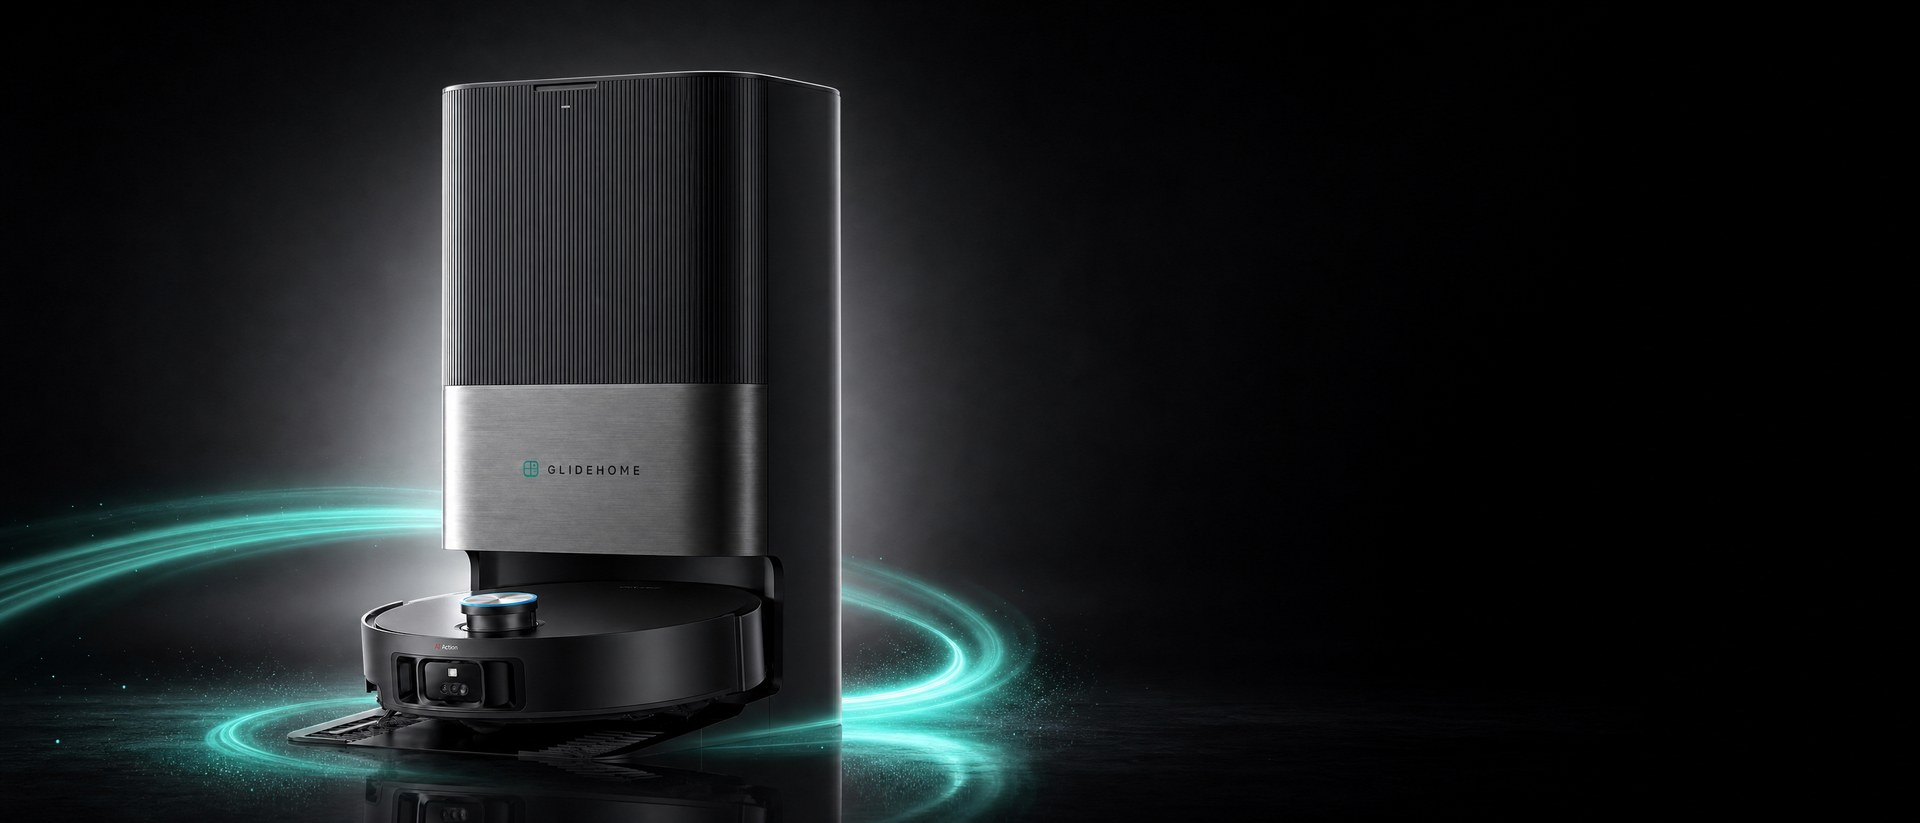
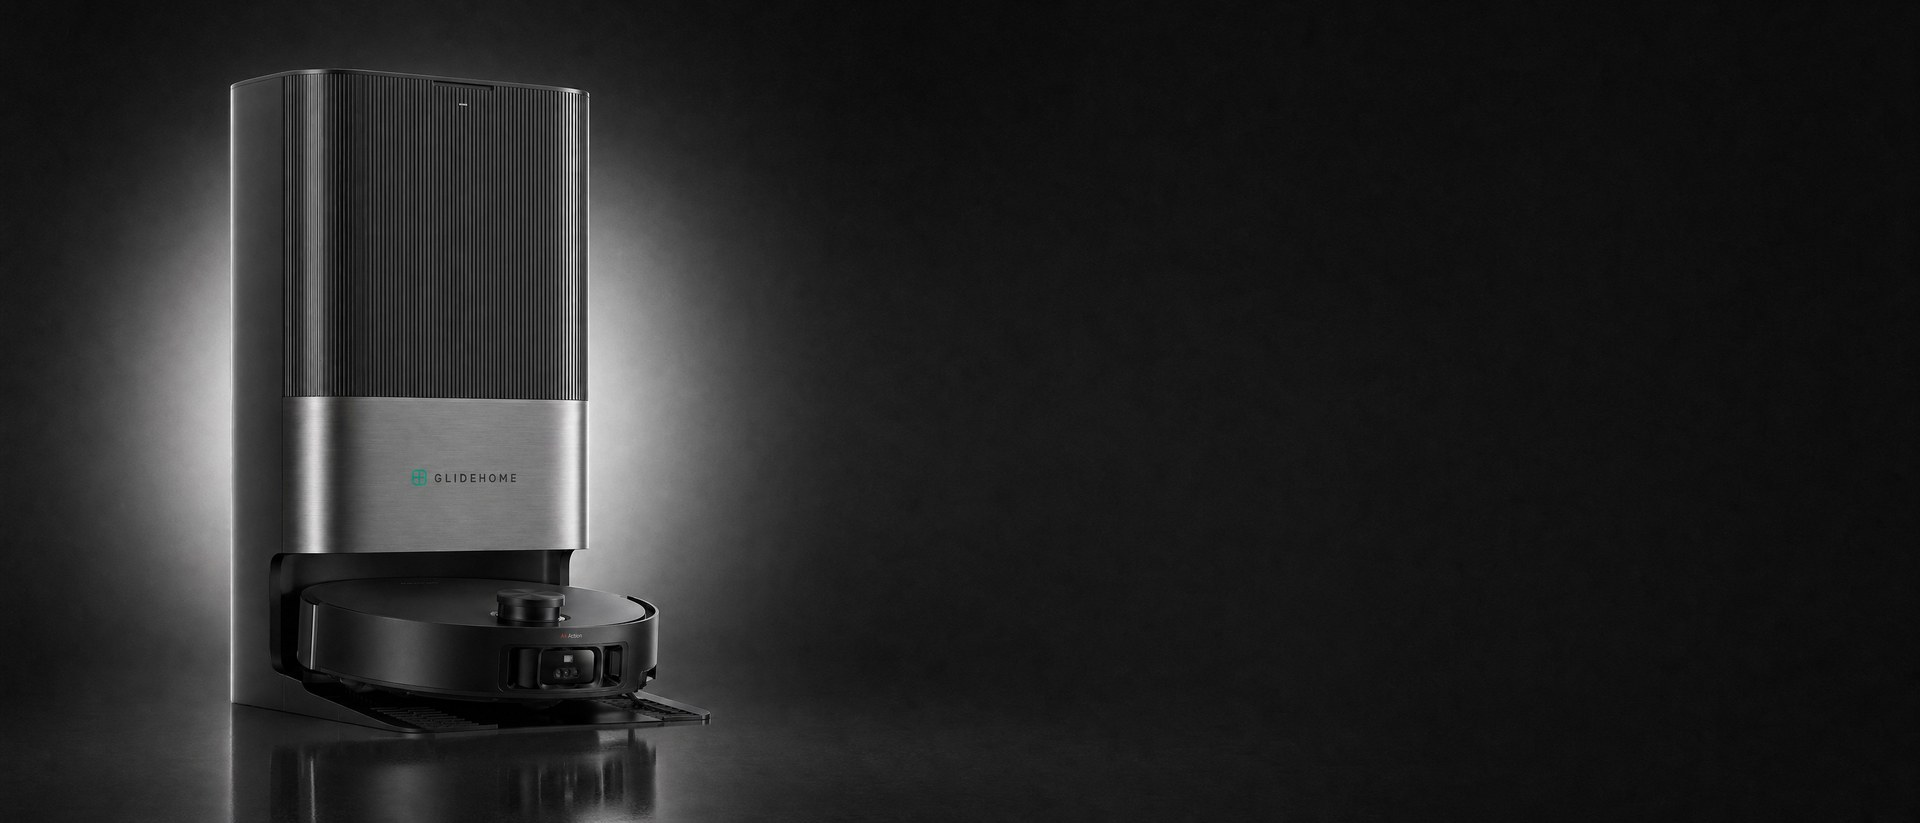
fix(shopify+proto): десктопные hero-картинки перегенерены под фиксы прототипа
- vacstation: убраны световые кольца/круги (как на мобильной версии)
- vac: убрана линия света на полу
- stickvac: пылесос у стены, не посреди комнаты
- windowpro/antimite: чистое стекло / включённый вид, товар в левой трети
- обновлены в теме (assets/glide-*.jpg + Shopify Files через fileUpdate, gid'ы те же)
- preview-shopify.html: добавлена шапка из прототипа, картинки с локальных путей (всегда свежие)

diff --git a/preview-shopify.html b/preview-shopify.html
@@ -1,77 +1,87 @@
 <!doctype html><html lang="en"><head><meta charset="utf-8">
 <meta name="viewport" content="width=device-width, initial-scale=1">
 <title>GlideHome — Shopify preview</title>
+<link rel="stylesheet" href="styles.css">
 <link rel="stylesheet" href="shopify/glide-home.css">
-<style>body{margin:0;font-family:-apple-system,BlinkMacSystemFont,"Segoe UI",Roboto,Arial,sans-serif;background:#f6f9fa}
-.note{background:#0f2831;color:#8fe6f0;font-size:12px;padding:8px 16px;text-align:center}</style>
+<style>.gh-note{background:#0f2831;color:#8fe6f0;font-size:12px;padding:7px 16px;text-align:center}</style>
 </head><body>
-<div class="note">Зеркало Shopify-секций glide-hero + glide-categories (тема GlideHome REDESIGN). Тот же CSS/JS/картинки, что в теме.</div>
+<div class="gh-note">Зеркало темы Shopify: шапка + секции glide-hero и glide-categories (те же CSS/JS/картинки, что в теме GlideHome REDESIGN)</div>
 
+<header id="hdr">
+  <div class="wrap nav">
+    <a class="logo" href="index.html">
+      <svg class="mark" viewBox="0 0 24 24" fill="currentColor"><rect x="2" y="2" width="9" height="9" rx="2"/><rect x="13" y="2" width="9" height="9" rx="2"/><rect x="2" y="13" width="9" height="9" rx="2"/><rect x="13" y="13" width="9" height="9" rx="2"/></svg>
+      GlideHome
+    </a>
+    <nav class="menu">
+      <div class="has-sub">
+        <a href="line.html">Window Cleaning Robot</a>
+        <div class="submenu">
+          <a href="line.html#lineup">GlideHome W17S</a>
+          <a href="line.html#lineup">GlideHome DYP</a>
+          <a href="line.html#explore">Accessories</a>
+        </div>
+      </div>
+      <div class="has-sub">
+        <a href="line.html">Robot Vacuum</a>
+        <div class="submenu">
+          <a href="product.html">GlideHome Vac Slim</a>
+          <a href="line.html#explore">Accessories</a>
+        </div>
+      </div>
+      <div class="has-sub">
+        <a href="support.html">Support</a>
+        <div class="submenu">
+          <a href="support.html#faq">FAQ</a>
+          <a href="support.html#setup">Setup guides</a>
+          <a href="support.html#warranty">Warranty &amp; returns</a>
+        </div>
+      </div>
+      <a href="about.html">About</a>
+    </nav>
+    <div class="icons">
+      <button aria-label="Search"><svg viewBox="0 0 24 24" fill="none" stroke="currentColor" stroke-width="2"><circle cx="11" cy="11" r="7"/><path d="m20 20-3.5-3.5"/></svg></button>
+      <a href="#" aria-label="Account"><svg viewBox="0 0 24 24" fill="none" stroke="currentColor" stroke-width="2"><circle cx="12" cy="8" r="4"/><path d="M5 21c0-4 3-6 7-6s7 2 7 6"/></svg></a>
+      <a href="#" aria-label="Cart"><svg viewBox="0 0 24 24" fill="none" stroke="currentColor" stroke-width="2"><path d="M6 6h15l-2 10H8L6 6Z"/><path d="M6 6 5 3H2"/><circle cx="9" cy="20" r="1.5"/><circle cx="17" cy="20" r="1.5"/></svg></a>
+      <button class="menu-toggle" aria-label="Menu"><svg viewBox="0 0 24 24" fill="none" stroke="currentColor" stroke-width="2"><path d="M3 6h18M3 12h18M3 18h18"/></svg></button>
+    </div>
+  </div>
+</header>
 <section class="glide glide-hero" data-glide-hero data-autoplay-ms="6000">
   <div class="glide-slides" data-glide-track>
-      <div class="glide-slide is-active" data-glide-slide
-        style="--img:url('https://cdn.shopify.com/s/files/1/0740/1878/3409/files/vacstation.jpg?v=1788360405');--img-m:url('https://cdn.shopify.com/s/files/1/0740/1878/3409/files/vacstation-m.jpg?v=1788360408');--pos-m:center;">
+      <div class="glide-slide is-active" data-glide-slide style="--img:url('slides/vacstation.jpg');--img-m:url('slides/vacstation-m.jpg');--pos-m:center;">
         <div class="glide-slide-bg"></div>
         <div class="glide-wrap"><div class="glide-slide-inner">
-          <span class="glide-eyebrow">GlideHome Vac Station</span>
-          <h2>It empties itself — and washes its own mops in hot water</h2>
-          <p>The flagship robot vacuum docks into an all-in-one station: auto-empty, hot-water mop wash and dry. Weeks of hands-off cleaning.</p>
-          <div class="glide-slide-cta">
-            <a class="glide-btn glide-btn--primary glide-btn--lg" href="#">Shop Vac Station</a>
-            <a class="glide-btn glide-btn--on-dark" href="#">See the station</a>
-          </div>
+          <span class="glide-eyebrow">GlideHome Vac Station</span><h2>It empties itself — and washes its own mops in hot water</h2><p>The flagship robot vacuum docks into an all-in-one station: auto-empty, hot-water mop wash and dry. Weeks of hands-off cleaning.</p>
+          <div class="glide-slide-cta"><a class="glide-btn glide-btn--primary glide-btn--lg" href="#">Shop Vac Station</a><a class="glide-btn glide-btn--on-dark" href="#">See the station</a></div>
         </div></div>
       </div>
-      <div class="glide-slide" data-glide-slide
-        style="--img:url('https://cdn.shopify.com/s/files/1/0740/1878/3409/files/vac.jpg?v=1788360412');--img-m:url('https://cdn.shopify.com/s/files/1/0740/1878/3409/files/vac-m.jpg?v=1788360414');--pos-m:center;">
+      <div class="glide-slide" data-glide-slide style="--img:url('slides/vac.jpg');--img-m:url('slides/vac-m.jpg');--pos-m:center;">
         <div class="glide-slide-bg"></div>
         <div class="glide-wrap"><div class="glide-slide-inner">
-          <span class="glide-eyebrow">GlideHome Vac Slim</span>
-          <h2>Now GlideHome does your floors too</h2>
-          <p>A slim robot vacuum that sweeps, vacuums and mops in one pass. Maps the room, avoids obstacles.</p>
-          <div class="glide-slide-cta">
-            <a class="glide-btn glide-btn--primary glide-btn--lg" href="#">Shop the vacuum</a>
-            
-          </div>
+          <span class="glide-eyebrow">GlideHome Vac Slim</span><h2>Now GlideHome does your floors too</h2><p>A slim robot vacuum that sweeps, vacuums and mops in one pass. Maps the room, avoids obstacles.</p>
+          <div class="glide-slide-cta"><a class="glide-btn glide-btn--primary glide-btn--lg" href="#">Shop the vacuum</a></div>
         </div></div>
       </div>
-      <div class="glide-slide" data-glide-slide
-        style="--img:url('https://cdn.shopify.com/s/files/1/0740/1878/3409/files/windowpro.jpg?v=1788360417');--img-m:url('https://cdn.shopify.com/s/files/1/0740/1878/3409/files/windowpro-m.jpg?v=1788360421');--pos-m:center;">
+      <div class="glide-slide" data-glide-slide style="--img:url('slides/windowpro.jpg');--img-m:url('slides/windowpro-m.jpg');--pos-m:center;">
         <div class="glide-slide-bg"></div>
         <div class="glide-wrap"><div class="glide-slide-inner">
-          <span class="glide-eyebrow">GlideHome Window Pro</span>
-          <h2>Full-height glass, cleaned on a planned path</h2>
-          <p>AI route mapping, edge detection and a climbing-grade safety line. It holds the pane and never misses a spot.</p>
-          <div class="glide-slide-cta">
-            <a class="glide-btn glide-btn--primary glide-btn--lg" href="#">Explore window robots</a>
-            
-          </div>
+          <span class="glide-eyebrow">GlideHome Window Pro</span><h2>Full-height glass, cleaned on a planned path</h2><p>AI route mapping, edge detection and a climbing-grade safety line. It holds the pane and never misses a spot.</p>
+          <div class="glide-slide-cta"><a class="glide-btn glide-btn--primary glide-btn--lg" href="#">Explore window robots</a></div>
         </div></div>
       </div>
-      <div class="glide-slide" data-glide-slide
-        style="--img:url('https://cdn.shopify.com/s/files/1/0740/1878/3409/files/stickvac.jpg?v=1788360424');--img-m:url('https://cdn.shopify.com/s/files/1/0740/1878/3409/files/stickvac-m.jpg?v=1788360427');--pos-m:center;">
+      <div class="glide-slide" data-glide-slide style="--img:url('slides/stickvac.jpg');--img-m:url('slides/stickvac-m.jpg');--pos-m:center;">
         <div class="glide-slide-bg"></div>
         <div class="glide-wrap"><div class="glide-slide-inner">
-          <span class="glide-eyebrow">GlideHome Stick V400</span>
-          <h2>Cordless power that empties itself</h2>
-          <p>190 AW suction, 50 minutes of runtime and a self-emptying dock. Grab it and go, put it back clean.</p>
-          <div class="glide-slide-cta">
-            <a class="glide-btn glide-btn--primary glide-btn--lg" href="#">Shop Stick V400</a>
-            
-          </div>
+          <span class="glide-eyebrow">GlideHome Stick V400</span><h2>Cordless power that empties itself</h2><p>190 AW suction, 50 minutes of runtime and a self-emptying dock. Grab it and go, put it back clean.</p>
+          <div class="glide-slide-cta"><a class="glide-btn glide-btn--primary glide-btn--lg" href="#">Shop Stick V400</a></div>
         </div></div>
       </div>
-      <div class="glide-slide" data-glide-slide
-        style="--img:url('https://cdn.shopify.com/s/files/1/0740/1878/3409/files/antimite.jpg?v=1788360430');--img-m:url('https://cdn.shopify.com/s/files/1/0740/1878/3409/files/antimite-m.jpg?v=1788360434');--pos-m:center;">
+      <div class="glide-slide" data-glide-slide style="--img:url('slides/antimite.jpg');--img-m:url('slides/antimite-m.jpg');--pos-m:center;">
         <div class="glide-slide-bg"></div>
         <div class="glide-wrap"><div class="glide-slide-inner">
-          <span class="glide-eyebrow">GlideHome Mite Pro</span>
-          <h2>A deeper clean for the bed you spend a third of your life in</h2>
-          <p>Tapping, UV, 15,500 Pa suction and warm-air drying, with a live dust-mite readout on the display.</p>
-          <div class="glide-slide-cta">
-            <a class="glide-btn glide-btn--primary glide-btn--lg" href="#">Shop Mite Pro</a>
-            
-          </div>
+          <span class="glide-eyebrow">GlideHome Mite Pro</span><h2>A deeper clean for the bed you spend a third of your life in</h2><p>Tapping, UV, 15,500 Pa suction and warm-air drying, with a live dust-mite readout on the display.</p>
+          <div class="glide-slide-cta"><a class="glide-btn glide-btn--primary glide-btn--lg" href="#">Shop Mite Pro</a></div>
         </div></div>
       </div>
   </div>
@@ -79,23 +89,14 @@
   <button class="glide-arrow glide-arrow--next" type="button" data-glide-next aria-label="Next">&#8250;</button>
   <div class="glide-dots" data-glide-dots></div>
 </section>
-
-<section class="glide glide-cats-section">
-  <div class="glide-wrap"><div class="glide-cats">
-      <a class="glide-cat" href="#">
-        <div class="glide-cat-art" style="background-image:url('https://cdn.shopify.com/s/files/1/0740/1878/3409/files/window.jpg?v=1788360437')"></div>
-        <div class="glide-cat-body"><h3>Window Robots</h3><span>Climbs the glass, cleans corner to corner</span><span class="glide-cat-go">Shop window robots →</span></div>
-      </a>
-      <a class="glide-cat" href="#">
-        <div class="glide-cat-art" style="background-image:url('https://cdn.shopify.com/s/files/1/0740/1878/3409/files/vacuum.jpg?v=1788360439')"></div>
-        <div class="glide-cat-body"><h3>Robot Vacuums</h3><span>Sweeps, vacuums and mops in one pass</span><span class="glide-cat-go">Shop robot vacuums →</span></div>
-      </a>
-      <a class="glide-cat" href="#">
-        <div class="glide-cat-art" style="background-image:url('https://cdn.shopify.com/s/files/1/0740/1878/3409/files/handheld.jpg?v=1788360443')"></div>
-        <div class="glide-cat-body"><h3>Anti-Mite & Handheld</h3><span>Deep-clean beds, sofas and floors</span><span class="glide-cat-go">Shop handheld →</span></div>
-      </a>
-  </div></div>
-</section>
-
+<section class="glide glide-cats-section"><div class="glide-wrap"><div class="glide-cats">
+      <a class="glide-cat" href="#"><div class="glide-cat-art" style="background-image:url('cats/window.jpg')"></div>
+      <div class="glide-cat-body"><h3>Window Robots</h3><span>Climbs the glass, cleans corner to corner</span><span class="glide-cat-go">Shop window robots →</span></div></a>
+      <a class="glide-cat" href="#"><div class="glide-cat-art" style="background-image:url('cats/vacuum.jpg')"></div>
+      <div class="glide-cat-body"><h3>Robot Vacuums</h3><span>Sweeps, vacuums and mops in one pass</span><span class="glide-cat-go">Shop robot vacuums →</span></div></a>
+      <a class="glide-cat" href="#"><div class="glide-cat-art" style="background-image:url('cats/handheld.jpg')"></div>
+      <div class="glide-cat-body"><h3>Anti-Mite & Handheld</h3><span>Deep-clean beds, sofas and floors</span><span class="glide-cat-go">Shop handheld →</span></div></a>
+</div></div></section>
+<script src="app.js" defer></script>
 <script src="shopify/glide-home.js" defer></script>
 </body></html>
